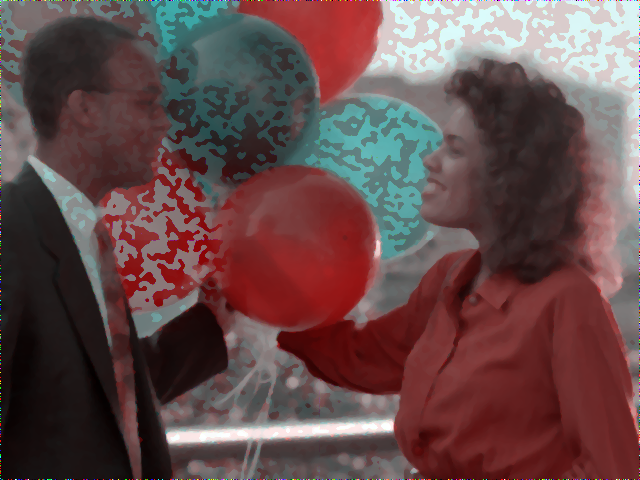
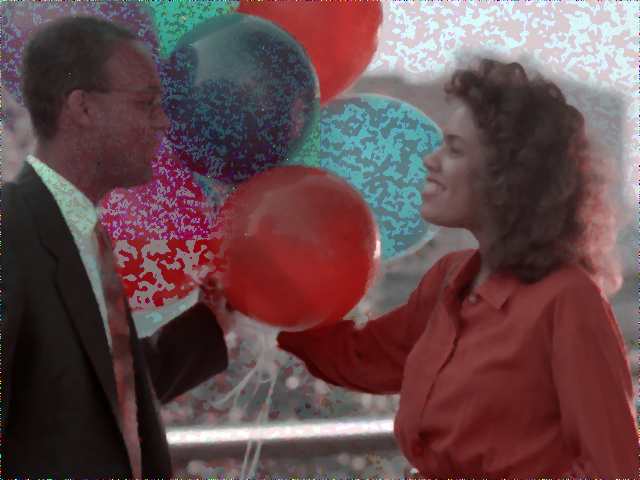
Fix to filter

diff --git a/src/medianfilterparallel/MedianFilterParallel.java b/src/medianfilterparallel/MedianFilterParallel.java
@@ -30,7 +30,6 @@ class MedianFilterParallel {
         final int threadLength = 4;
         final Thread[] threads = new Thread[threadLength];
         long startTime = System.currentTimeMillis();
-
         final Image image = new Image(file, outputFile, fileType);
         BufferedImage outputImage = null;
         BufferedImage splitTemp[] = new BufferedImage[threadLength];
@@ -42,29 +41,31 @@ class MedianFilterParallel {
         }
         
         final BufferedImage imgs[] = splitTemp;
-
+        
 
 
         class FilterThread extends Thread {
-
+            
 
             @Override
             public void run() {
-                BufferedImage tempImgs[] = new BufferedImage[imgs.length];
+                
                 try {
-                    for(int i = 0; i < threadLength; i++){
-                        tempImgs[i] = imgs[i];
+                    BufferedImage tempImgs[] = new BufferedImage[imgs.length];
+                    int count = MedianFilterParallel.getThreadCount();
+                    tempImgs[count] = imgs[count];
 
-                        image.applyMedianFilterOnOtherImages(tempImgs[i]);
-                    }
+                    image.applyMedianFilterOnOtherImages(tempImgs[count]);
                 } catch (Exception ex) {
                     Logger.getLogger(MedianFilterParallel.class.getName()).log(Level.SEVERE, null, ex);
                 }
+                    
 
             }
         }
-
+        
         for (int i = 0; i < threads.length; i++) {
+            MedianFilterParallel.threadCount = i;
             threads[i] = new FilterThread();
             threads[i].start();
             
@@ -83,4 +84,15 @@ class MedianFilterParallel {
 
         System.out.println("Duration " + duration);
     }
+    
+    private static int threadCount = 0;
+
+    public static synchronized int getThreadCount() {
+        return threadCount;
+    }
+
+    public void setThreadCount(int threadCount) {
+        this.threadCount = threadCount;
+    }
+
 }

diff --git a/src/medianfilterparallel/Image.java b/src/medianfilterparallel/Image.java
@@ -76,6 +76,7 @@ public class Image {
     }
 
     public BufferedImage[] splitImage() throws Exception {
+        long startTime = System.currentTimeMillis();
         int rows = 2; //You should decide the values for rows and cols variables
         int cols = 2;
         int chunks = rows * cols;
@@ -99,10 +100,15 @@ public class Image {
                 gr.dispose();
             }
         }
+        long endTime = System.currentTimeMillis();
+        long duration = (endTime - startTime);
+
+        System.out.println("Duration Splitimage Parallel " + duration);
         return imgs;
     }
 
     public void combineChunks(BufferedImage imgs[]) throws IOException, Exception {
+        long startTime = System.currentTimeMillis();
         int rows = 2;   //we assume the no. of rows and cols are known and each chunk has equal width and height
         int cols = 2;
         int chunks = rows * cols;
@@ -121,9 +127,14 @@ public class Image {
         applyMedianFilterOnOtherImages(this.img);
         System.out.println("Image concatenated.....");
         ImageIO.write(this.img, "png", new File(this.outputFile));
+        long endTime = System.currentTimeMillis();
+        long duration = (endTime - startTime);
+
+        System.out.println("Duration Image Combining Parallel " + duration);
     }
 
     public void applyMedianFilterOnOtherImages(BufferedImage chunk) throws Exception {
+        long startTime = System.currentTimeMillis();
         Color[] surroundedPixel = new Color[9];
         int[] R = new int[9];
         int[] B = new int[9];
@@ -152,5 +163,9 @@ public class Image {
         }
 
         this.setImg(img);
+        long endTime = System.currentTimeMillis();
+        long duration = (endTime - startTime);
+
+        System.out.println("Duration Image MEdian filter Parallel " + duration);
     }
 }
